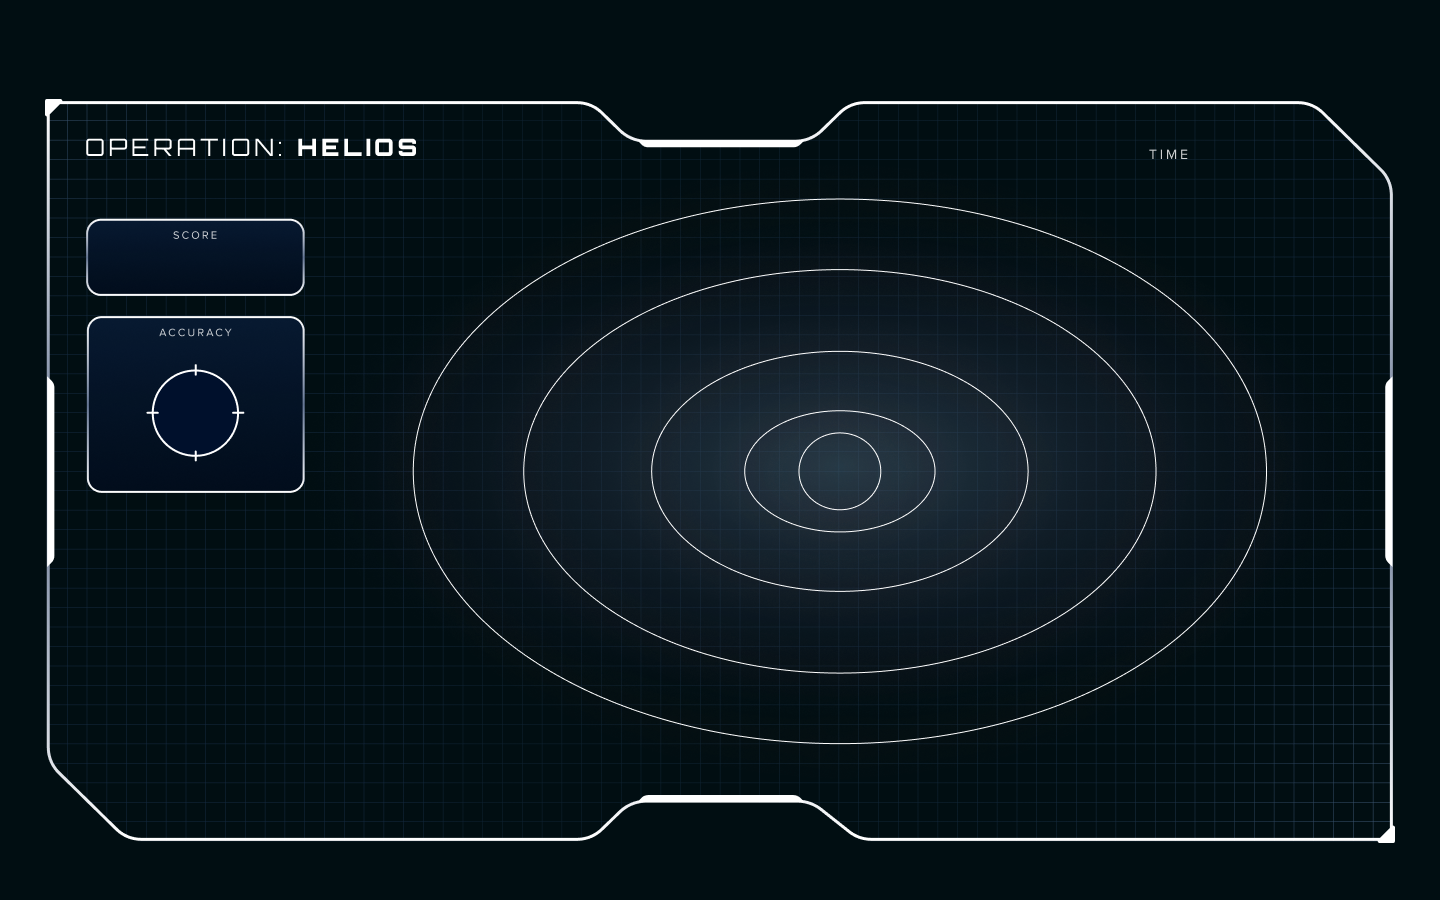
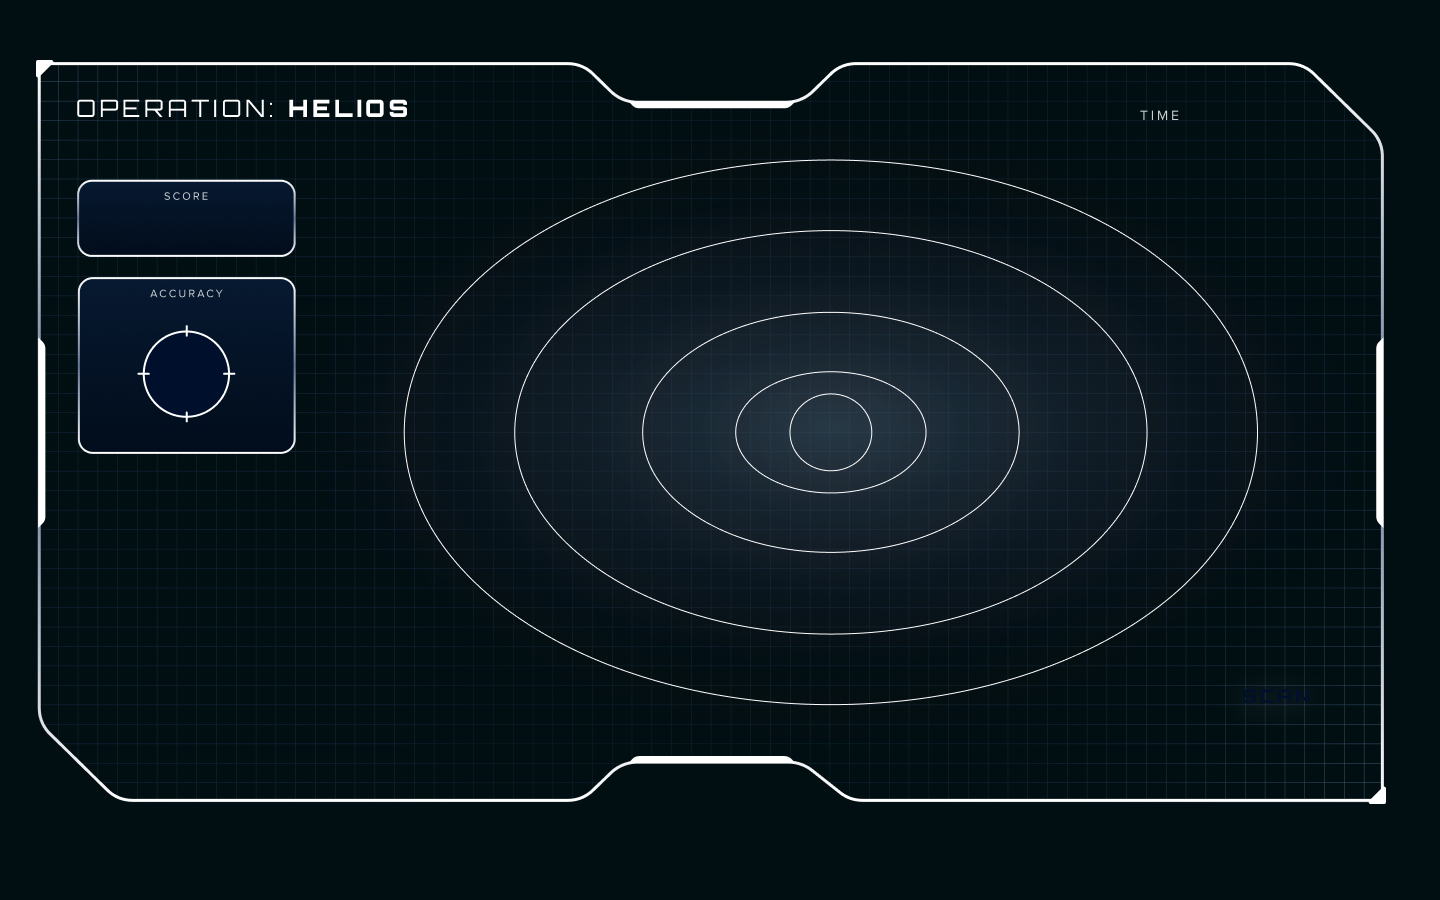
finished

diff --git a/src.js b/src.js
@@ -5,12 +5,12 @@ ctx.canvas.width = window.innerWidth;
 ctx.canvas.height = window.innerHeight;
 
 var stopped = false;
-var time = 30;
+var time = 10;
 var frame = 0;
-const CENTER_X = 1109;
-const CENTER_Y = 565;
-var greenRadiusX = 240;
-var greenRadiusY = 416;
+const CENTER_X = 1102;
+const CENTER_Y = 512;
+var greenRadiusX = 241;
+var greenRadiusY = 418;
 var button = document.getElementById('scan');
 var button2 = document.getElementById('gameover');
 
@@ -46,7 +46,7 @@ const drawOvalShape = (ctx, center_x, center_y, radiusX, radiusY, strokeColor, a
 
 const drawRectShape = (ctx, x, y, width, height, color) => {
     ctx.beginPath();
-    ctx.strokeColor = 'white' ;
+    ctx.strokeStyle = 'white';
     ctx.fillStyle = color;
     ctx.lineWidth = 5;
     ctx.rect(x, y, width, height);
@@ -98,24 +98,24 @@ const Update = () => {
 const Draw = () => {
     ctx.clearRect(0,0,1920,1080);
     const bg = new Image();
-    bg.src = "assets/bg.png";
+    bg.src = "assets/bg1.png";
     ctx.drawImage(bg,0,0,1900,1080);
     const sun = new Image();
     button2.style.visibility = 'hidden';
 
 
     if(score == 0){
-        DrawText(ctx, 210, 333, 'Orbitron', 'normal', 40, 'white', '000');
+        DrawText(ctx, 205, 280, 'Orbitron', 'normal', 40, 'white', '000');
     } else {
-        DrawText(ctx, 210, 333, 'Orbitron', 'normal', 40, 'white', score);
+        DrawText(ctx, 205, 280, 'Orbitron', 'normal', 40, 'white', score);
     }
-    DrawText(ctx, 1590, 195, 'Orbitron', 'normal', 30, 'white', timer);   // drawing the timer
+    DrawText(ctx, 1580, 140, 'Orbitron', 'normal', 30, 'white', timer);   // drawing the timer
 
     if(accuracy == '0' + '%'){
-    DrawText(ctx, 225, 505, 'Orbitron', 'normal', 25, 'white', '00%');   // drawing the accuracy 
+    DrawText(ctx, 221, 450, 'Orbitron', 'normal', 25, 'white', '00%');   // drawing the accuracy 
     }
     else{
-        DrawText(ctx, 225, 505, 'Orbitron', 'normal', 25, 'white', accuracy);
+        DrawText(ctx, 221, 450, 'Orbitron', 'normal', 25, 'white', accuracy);
     }
 
     // drawing for the circles
@@ -130,14 +130,15 @@ const Draw = () => {
     drawOvalShape(ctx, CENTER_X, CENTER_Y, 146, 249, "white", .09, "blue"); // white one before green
 
     sun.src = "assets/sun.png";
-    ctx.drawImage(sun, 1034, 490, 150, 150);
+    ctx.drawImage(sun, 1030, 437, 150, 150);
     
     // timer stopped
     if(timer == `00:00`){
+        ctx.clearRect(0,0,1920,1080);
         const GOscreen = new Image();
         GOscreen.src = 'assets/gameover.png';
         ctx.drawImage(GOscreen,0,0,1900,1080);
-        DrawText(ctx, 1010, 640, 'Orbitron', 'normal', 30, 'white', score);  // display score
+        DrawText(ctx, 1020, 658, 'Orbitron', 'normal', 29, 'white', score);  // display score
         button.style.visibility ='hidden';
         button2.style.visibility = 'visible';
     }

diff --git a/simplepage.html b/simplepage.html
@@ -23,8 +23,8 @@
 #scan{
     position: absolute;
     z-index: 3;
-    top: 39vw;
-    left: 80vw;
+    top: 37.5vw;
+    left: 82.5vw;
     opacity: 1;
     width: 12%;
 }
@@ -36,7 +36,7 @@
 #gameover{
     position: absolute;
     z-index: 3;
-    top: 35vw;
+    top: 37vw;
     left: 40vw;
     opacity: 1;
     width: 19%;
